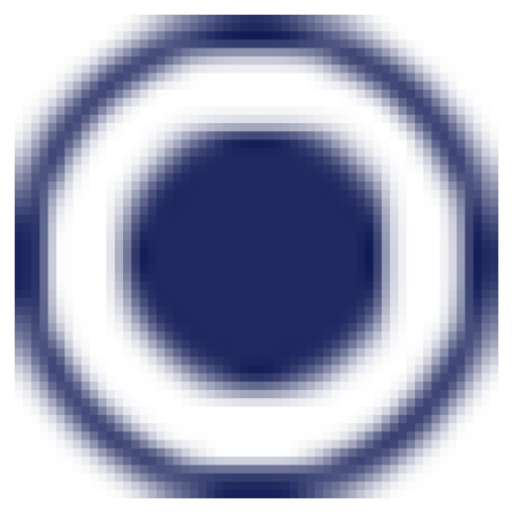
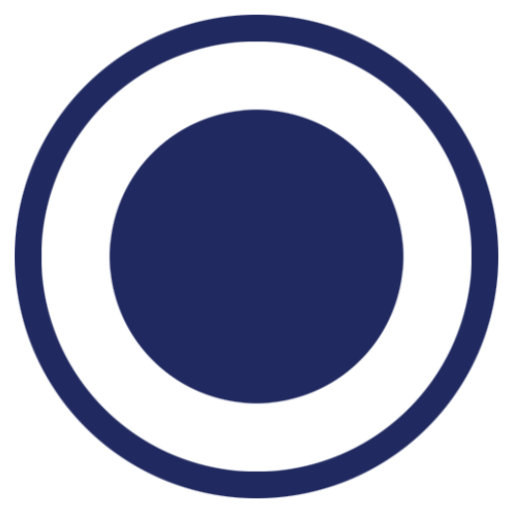
Improved drawables quality

diff --git a/app/src/main/java/dev/kstrahilov/tnavi/StopFormActivity.kt b/app/src/main/java/dev/kstrahilov/tnavi/StopFormActivity.kt
@@ -97,7 +97,7 @@ class StopFormActivity : AppCompatActivity() {
                 if (stop != null) {
                     googleMap.addMarker(
                         MarkerOptions().position(stop!!.location)
-                            .icon(bitmapFromVector(applicationContext, R.drawable.spirka))
+                            .icon(bitmapFromVector(applicationContext, R.drawable.stop))
                             .anchor(0.5F, 0.5F)
                     )
                     googleMap.moveCamera(CameraUpdateFactory.newLatLngZoom(stop!!.location, 17F))
@@ -109,7 +109,7 @@ class StopFormActivity : AppCompatActivity() {
                     googleMap.clear()
                     googleMap.addMarker(
                         MarkerOptions().position(selectedLocation)
-                            .icon(bitmapFromVector(applicationContext, R.drawable.spirka))
+                            .icon(bitmapFromVector(applicationContext, R.drawable.stop))
                             .anchor(0.5F, 0.5F)
                     )
                     addCircle(googleMap, selectedLocation)
@@ -201,10 +201,10 @@ class StopFormActivity : AppCompatActivity() {
     private fun bitmapFromVector(context: Context, vectorResId: Int): BitmapDescriptor {
         val vectorDrawable = ContextCompat.getDrawable(context, vectorResId)
         vectorDrawable!!.setBounds(
-            0, 0, vectorDrawable.intrinsicWidth, vectorDrawable.intrinsicHeight
+            0, 0, 70, 70
         )
         val bitmap = Bitmap.createBitmap(
-            vectorDrawable.intrinsicWidth, vectorDrawable.intrinsicHeight, Bitmap.Config.ARGB_8888
+            70, 70, Bitmap.Config.ARGB_8888
         )
         val canvas = Canvas(bitmap)
         vectorDrawable.draw(canvas)

diff --git a/app/src/main/java/dev/kstrahilov/tnavi/StopListAdapter.kt b/app/src/main/java/dev/kstrahilov/tnavi/StopListAdapter.kt
@@ -27,13 +27,13 @@ class StopListAdapter(var context: Context, var arrayList: ArrayList<Stop>) : Ba
 
         val stop: Stop = arrayList[p0]
         if (stop.isCurrent) {
-            ivStop.setImageResource(R.drawable.tekushta_spirka)
+            ivStop.setImageResource(R.drawable.current_stop)
             tvTitle.setTextColor(tvTitle.context.getColor(R.color.red))
         } else if (stop.isNext) {
-            ivStop.setImageResource(R.drawable.sledvashta_spirka)
+            ivStop.setImageResource(R.drawable.next_stop)
             tvTitle.setTextColor(tvTitle.context.getColor(R.color.green))
         } else {
-            ivStop.setImageResource(R.drawable.spirka)
+            ivStop.setImageResource(R.drawable.stop)
             tvTitle.setTextColor(tvTitle.context.getColor(R.color.black))
         }
         tvTitle.text = stop.title

diff --git a/app/src/main/java/dev/kstrahilov/tnavi/SettingsListAdapter.kt b/app/src/main/java/dev/kstrahilov/tnavi/SettingsListAdapter.kt
@@ -28,7 +28,7 @@ class SettingsListAdapter(var context: Context, private var array: Array<String>
 
         when (val item: String = array[p0]) {
             "stopManager" -> {
-                ivIcon.setImageResource(R.drawable.spirka)
+                ivIcon.setImageResource(R.drawable.stop)
                 tvTitle.text = context.getString(R.string.stops_manager)
             }
             "lineManager" -> {
